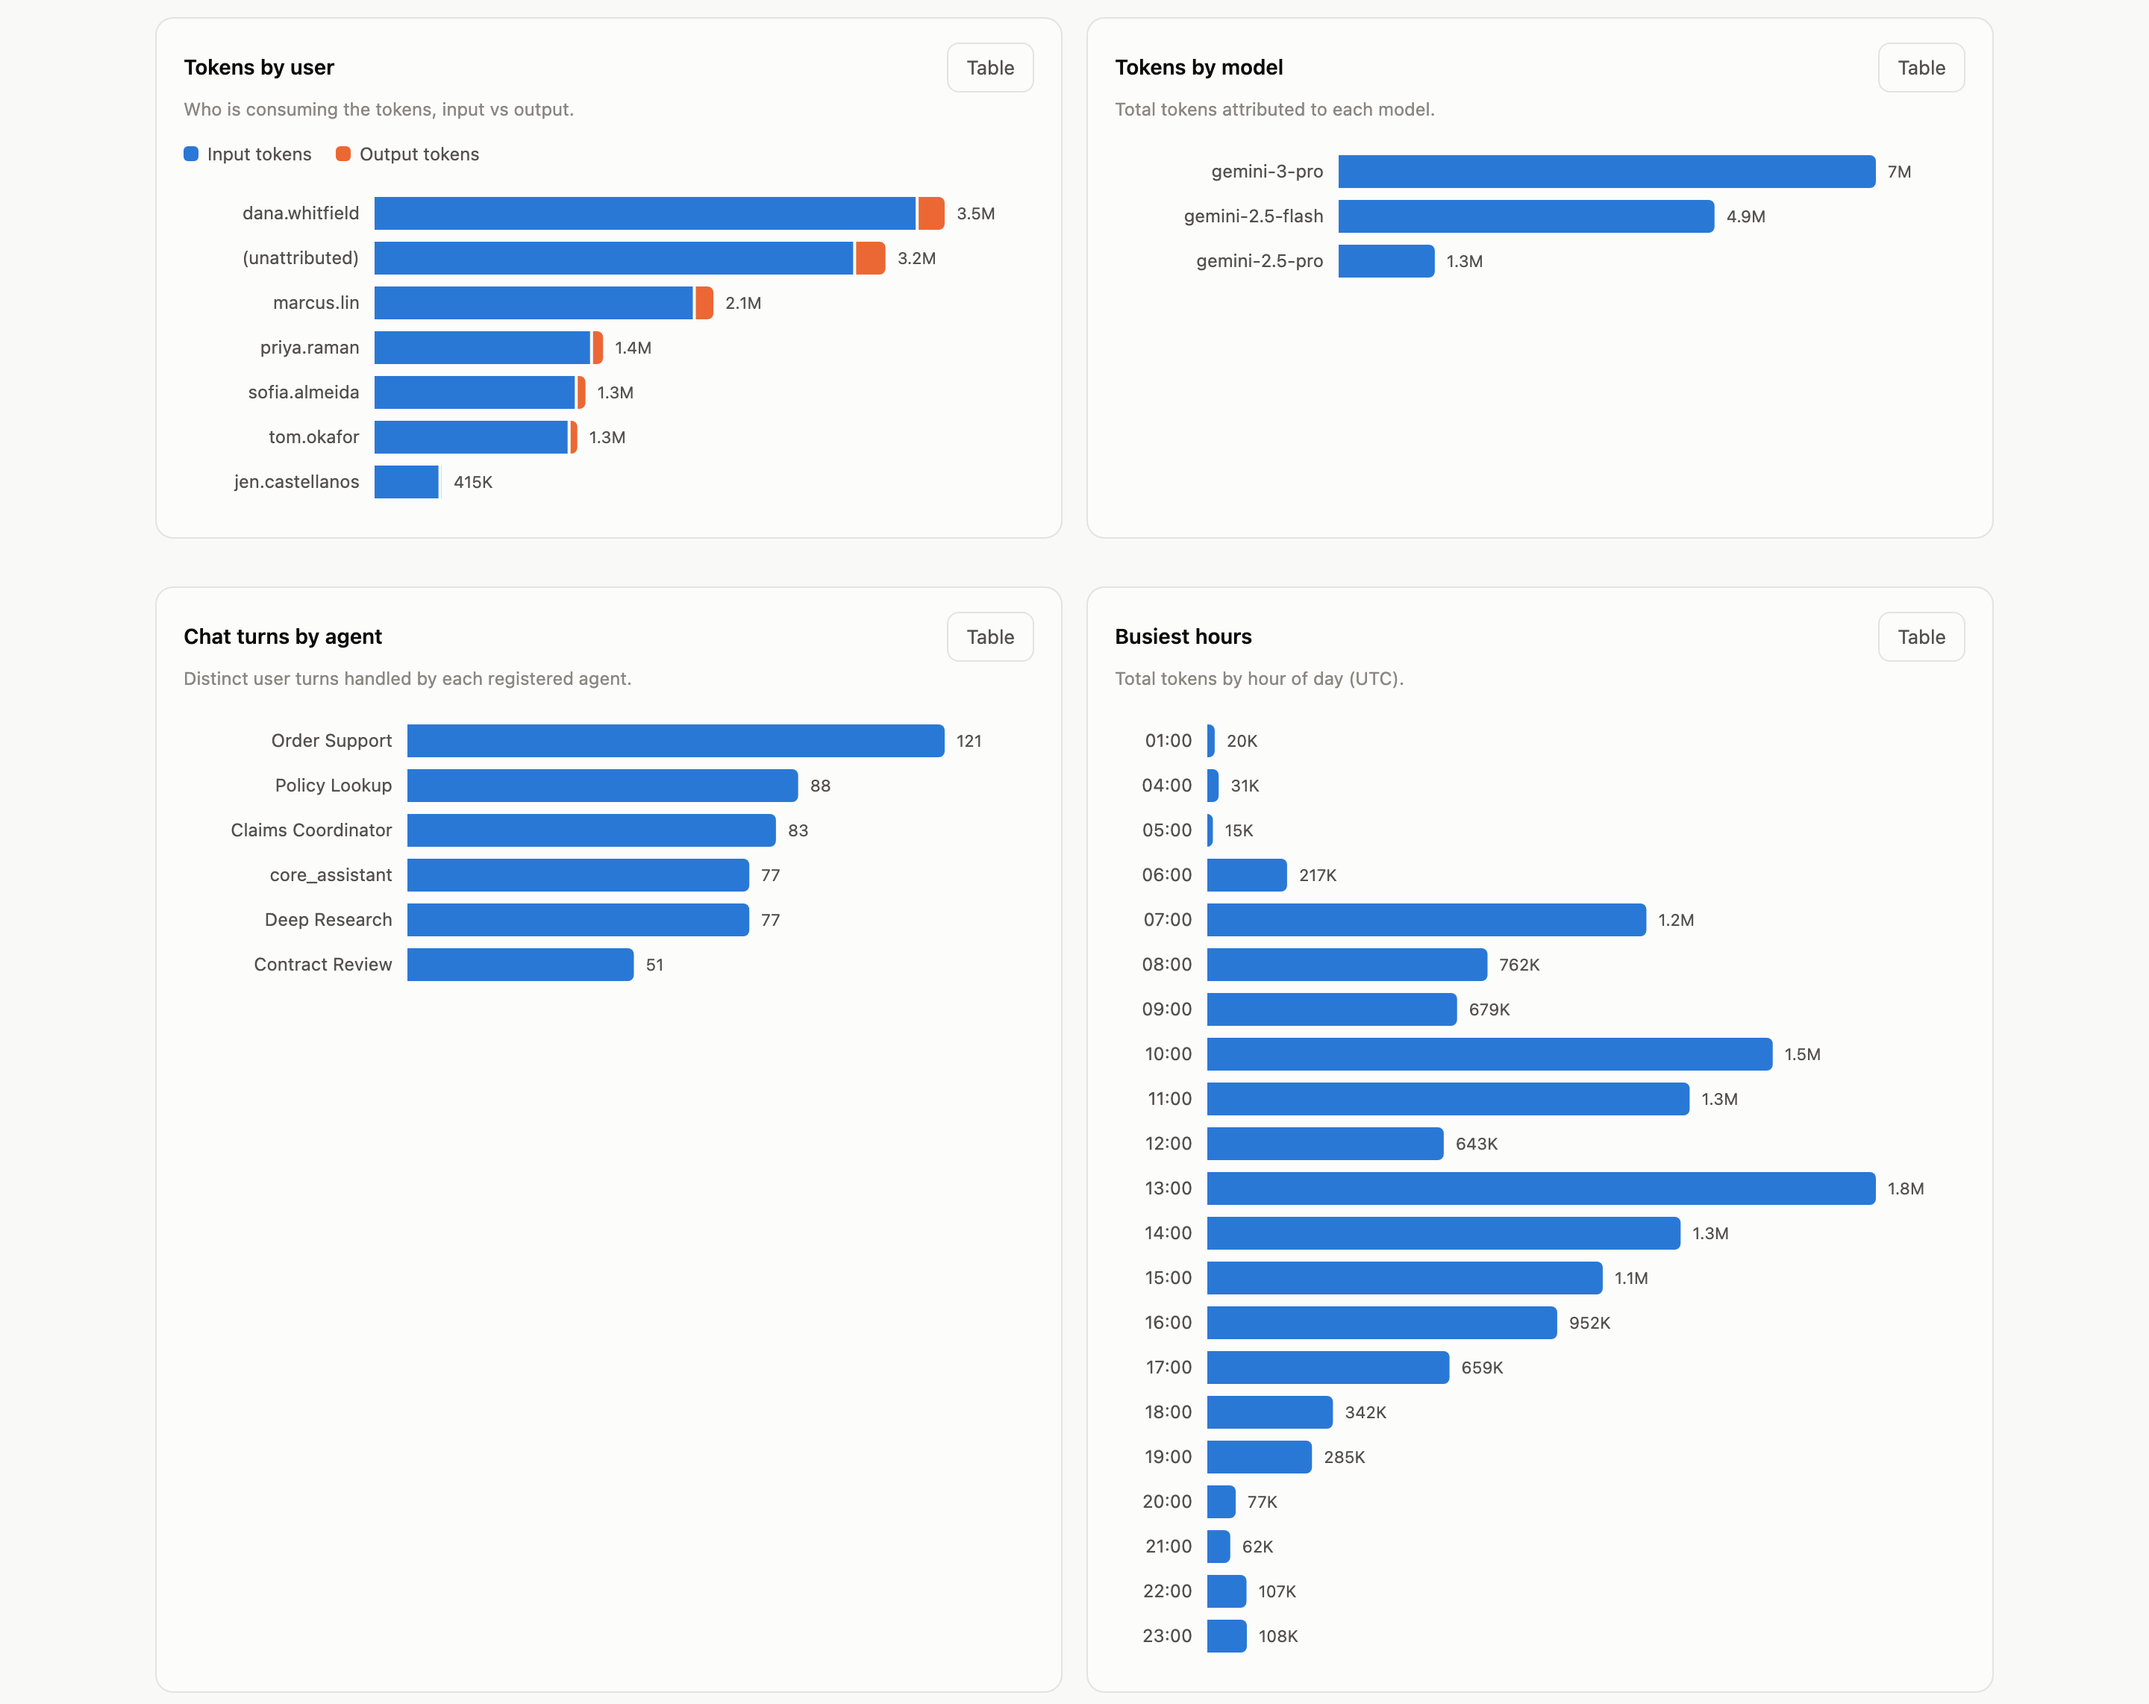
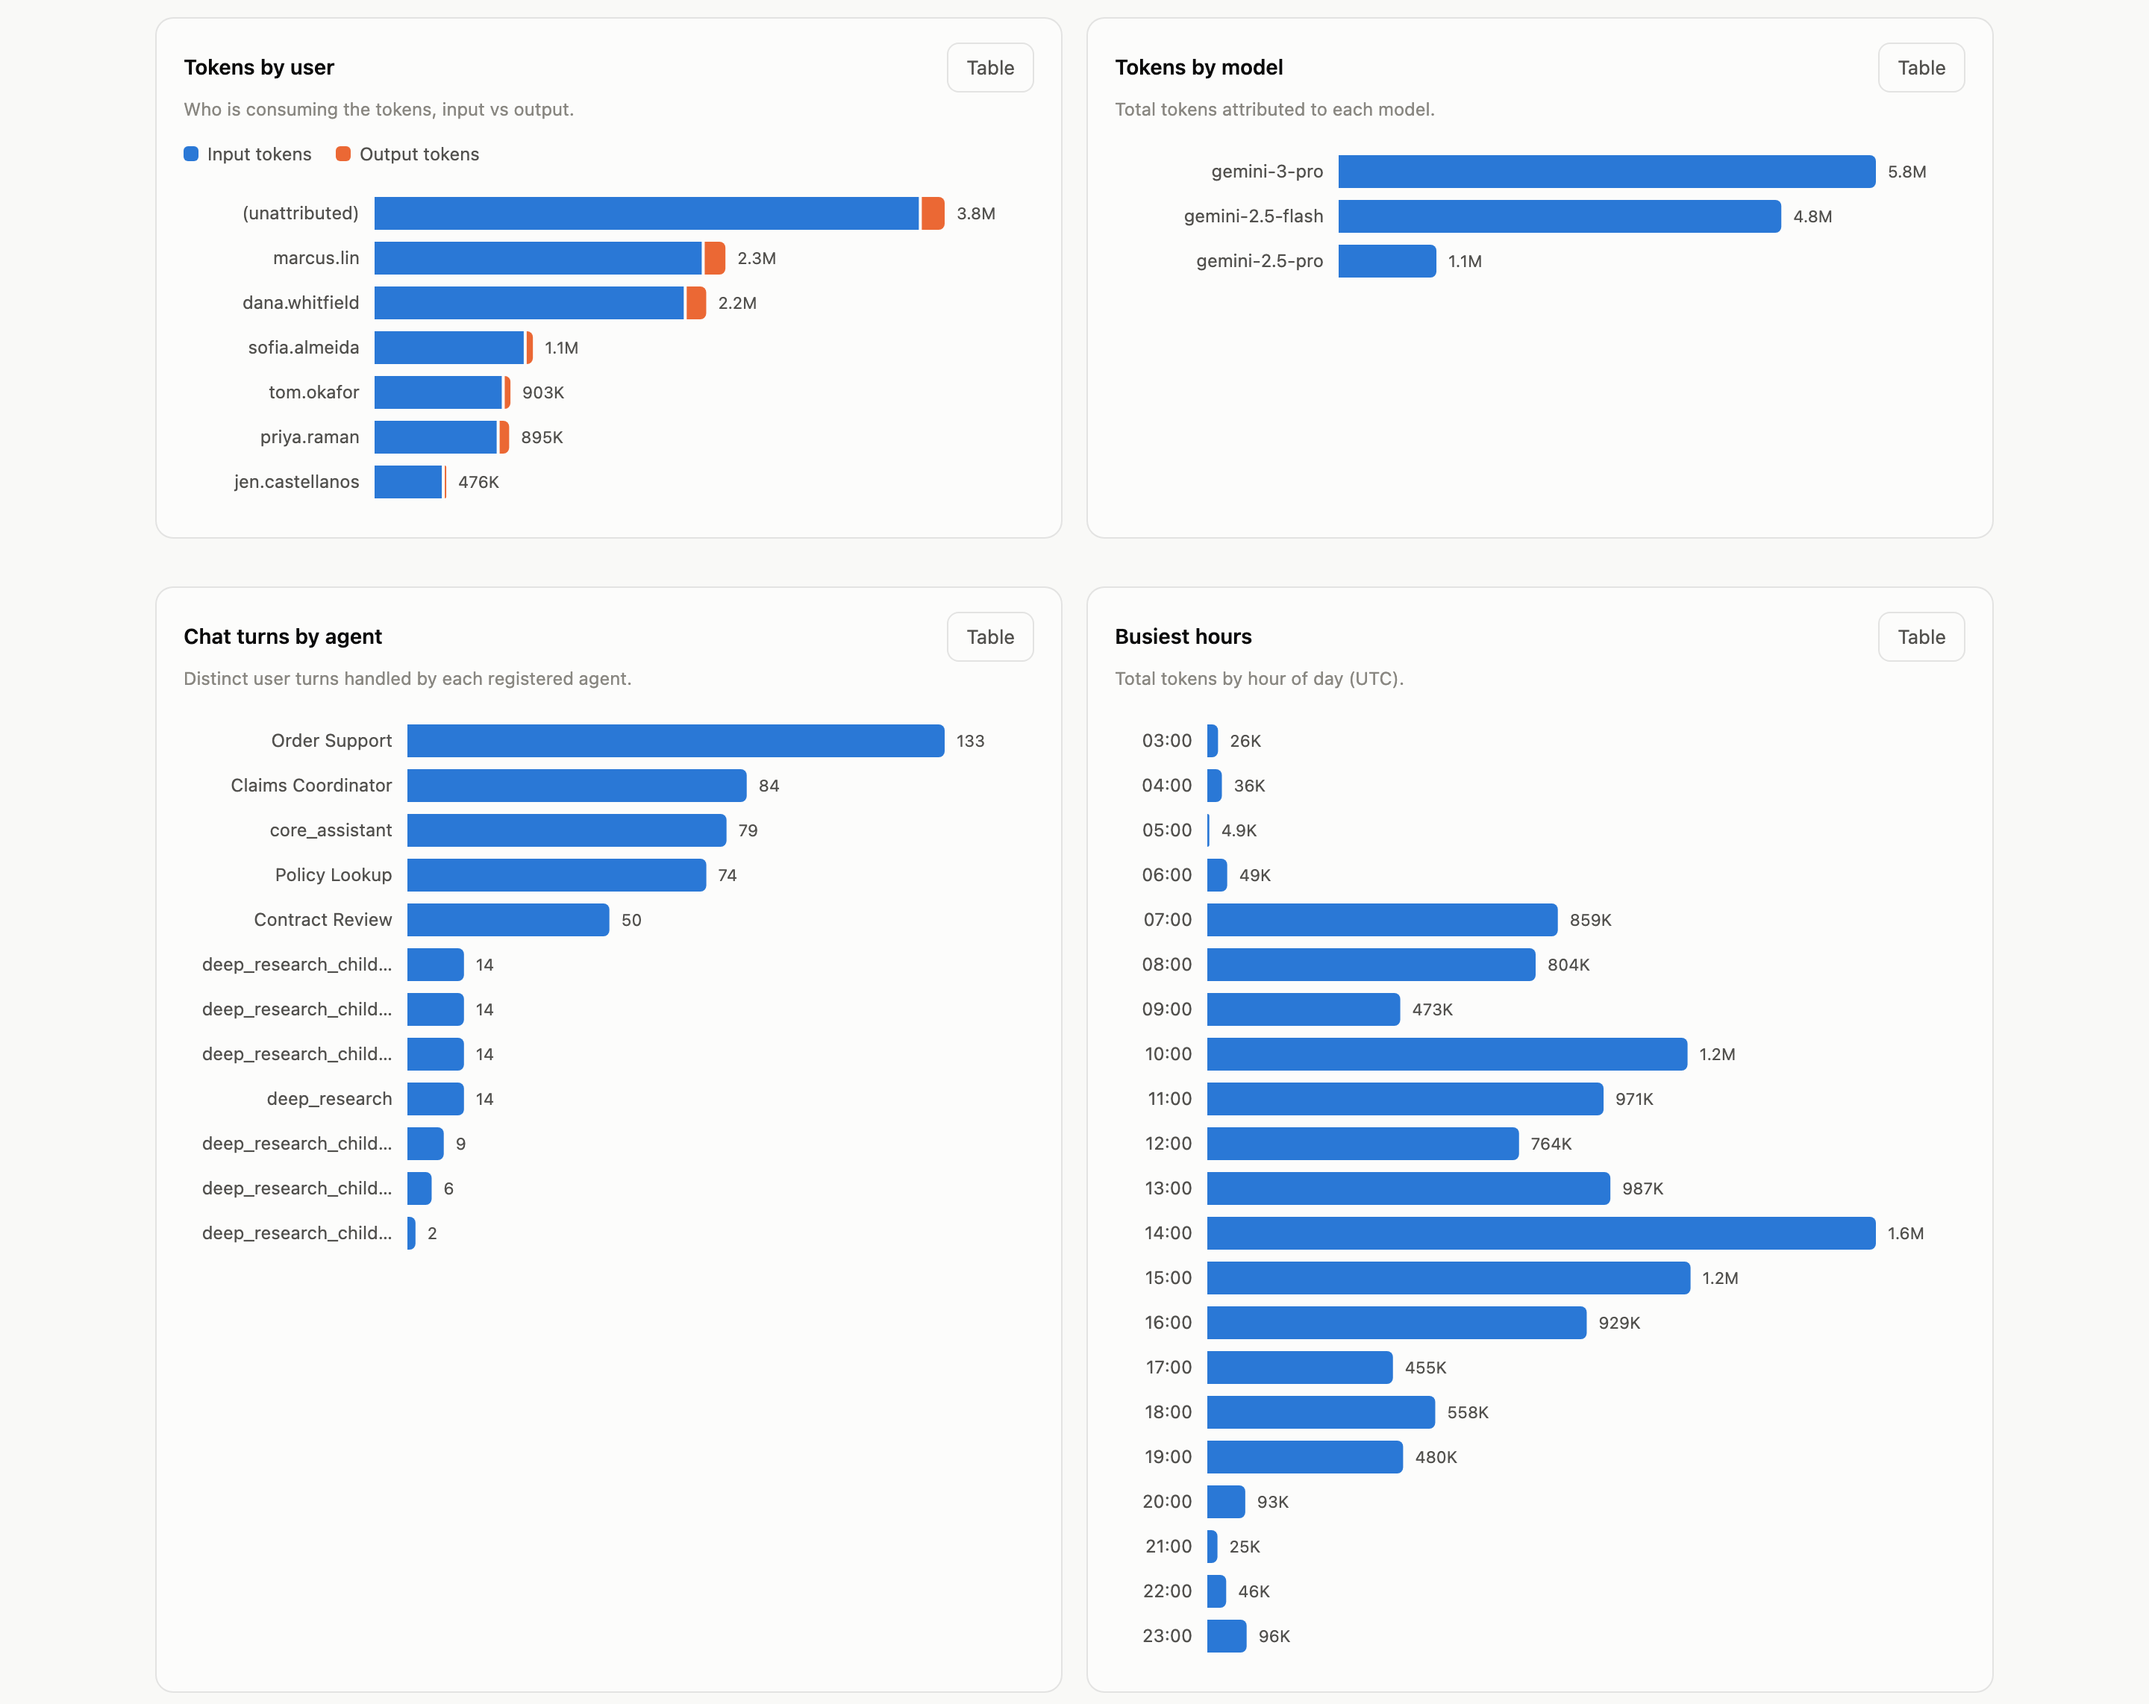
fix(dashboard): keep the tallest column inside the plot
niceTicks stopped at the last tick below the maximum, so a day taller
than the top tick overdrew the plot area and ran into the legend. The
tick loop now runs until the last tick covers the maximum. Surfaced by
regenerating the screenshots, which are refreshed here from the
corrected demo data.

diff --git a/dashboard.py b/dashboard.py
@@ -335,7 +335,10 @@ function niceTicks(max, count) {
   const mag = Math.pow(10, Math.floor(Math.log10(raw)));
   const step = [1, 2, 2.5, 5, 10].map((m) => m * mag).find((s) => s >= raw) || 10 * mag;
   const out = [];
-  for (let v = 0; v <= max + step * 0.001; v += step) out.push(v);
+  for (let v = 0; ; v += step) {   // the last tick always covers max, so no
+    out.push(v);                   // column can overdraw the plot area
+    if (v >= max) break;
+  }
   return out;
 }
 
